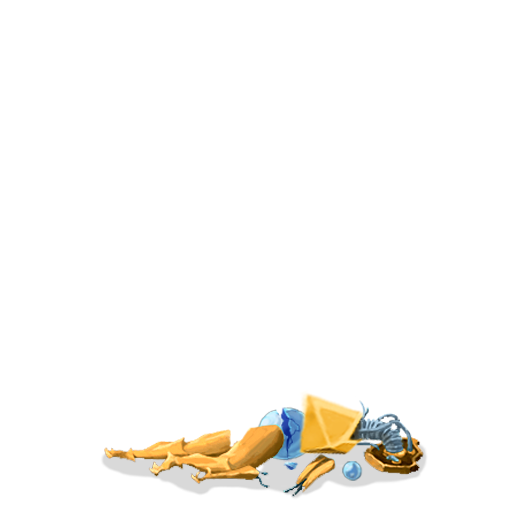
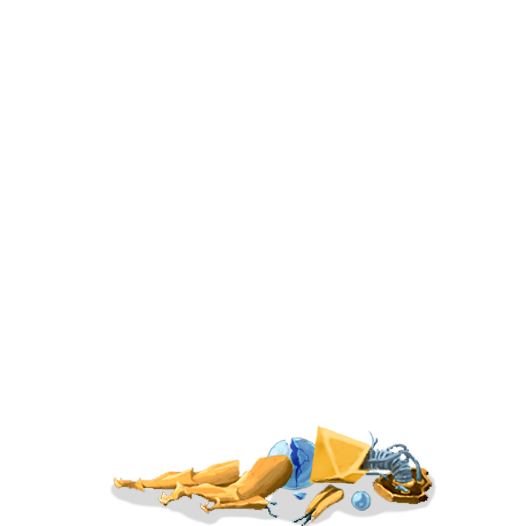
"the perfect" skin fixes
-hit animation plays
-corpse no longer floats

Changed region(s): [[0.1875, 0.75, 0.8438, 1.0]]

diff --git a/src/main/java/automaton/AutomatonChar.java b/src/main/java/automaton/AutomatonChar.java
@@ -10,9 +10,11 @@ import com.badlogic.gdx.graphics.Color;
 import com.badlogic.gdx.graphics.Texture;
 import com.badlogic.gdx.graphics.g2d.BitmapFont;
 import com.badlogic.gdx.math.MathUtils;
+import com.esotericsoftware.spine.AnimationState;
 import com.evacipated.cardcrawl.modthespire.lib.SpireEnum;
 import com.megacrit.cardcrawl.actions.AbstractGameAction;
 import com.megacrit.cardcrawl.cards.AbstractCard;
+import com.megacrit.cardcrawl.cards.DamageInfo;
 import com.megacrit.cardcrawl.characters.AbstractPlayer;
 import com.megacrit.cardcrawl.core.CardCrawlGame;
 import com.megacrit.cardcrawl.core.EnergyManager;
@@ -59,6 +61,15 @@ public class AutomatonChar extends CustomPlayer {
 
         this.reloadAnimation();
 
+    }
+
+    public void damage(DamageInfo info) {
+        if (info.owner != null && info.type != DamageInfo.DamageType.THORNS && info.output - this.currentBlock > 0 && CharacterSelectScreenPatches.characters[5].reskinCount == 2) {
+            this.state.setAnimation(0, "Hit", false);
+            this.state.addAnimation(0, "idle", true, 0.0F);
+        }
+
+        super.damage(info);
     }
 
     public void reloadAnimation() {
